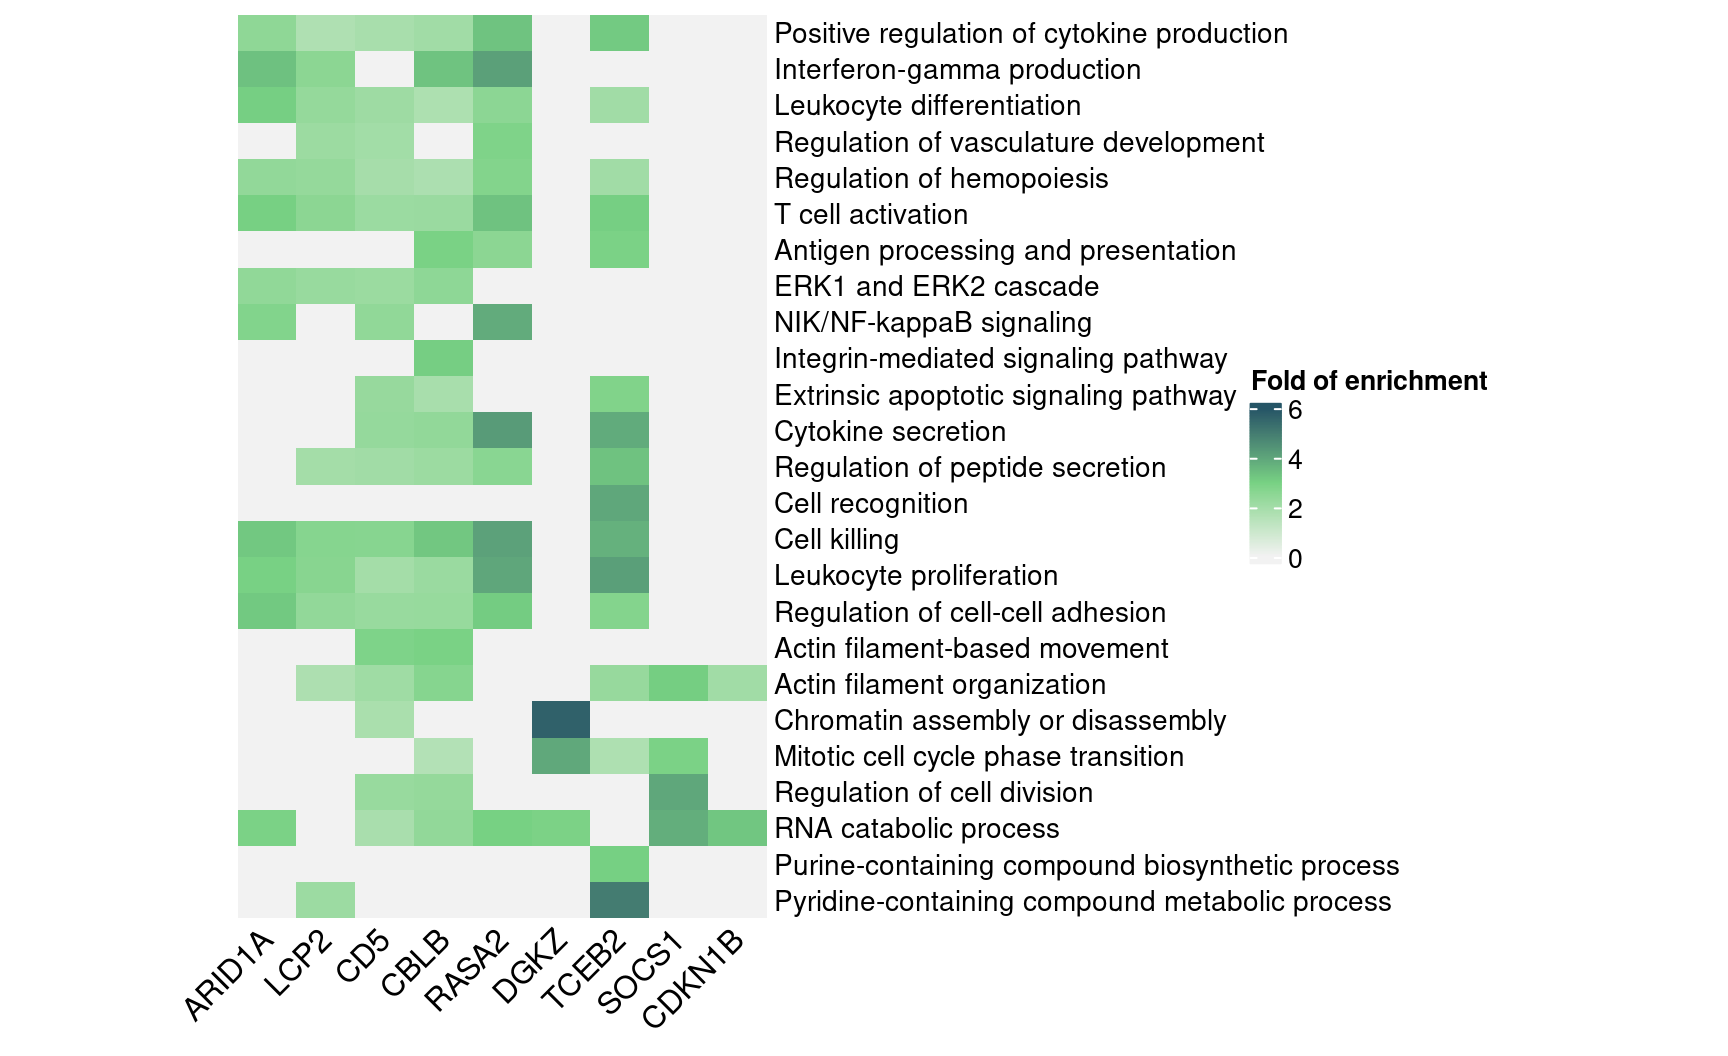
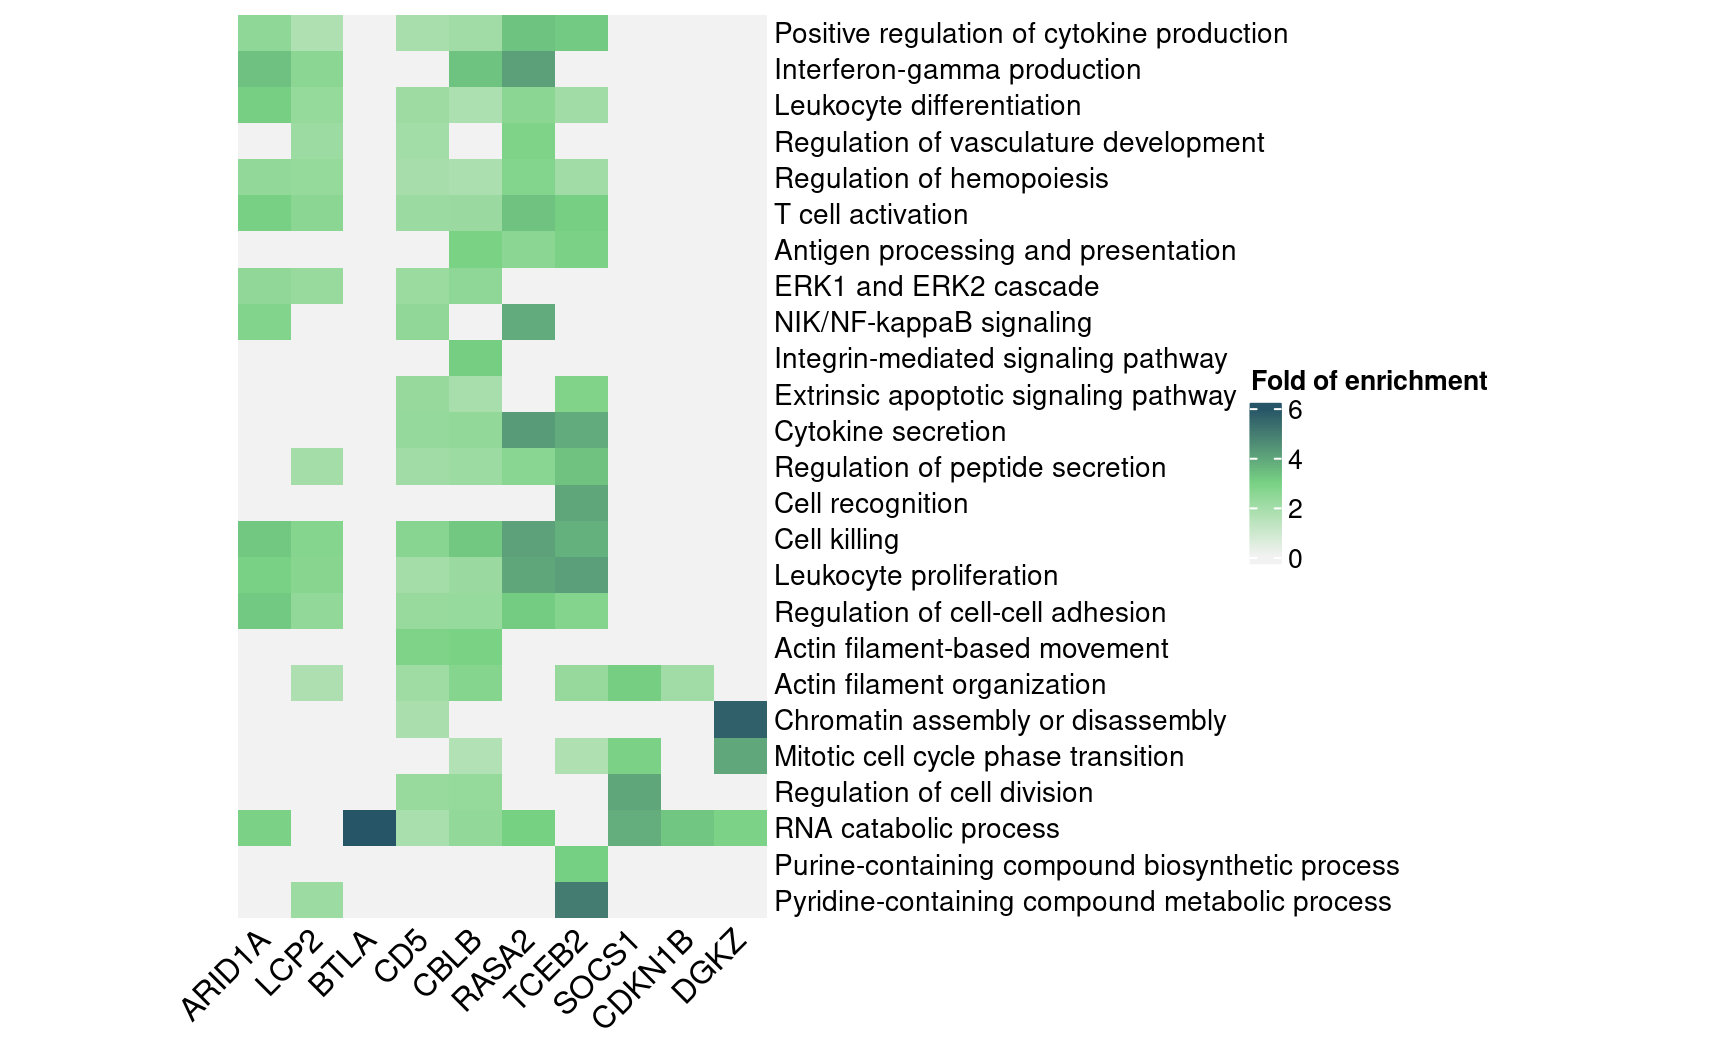
marker and target gene adjustment

Changed region(s): [[0.0938, 0.0, 0.4688, 0.9688]]

diff --git a/docs/interpret_gsfa_TCells.html b/docs/interpret_gsfa_TCells.html
@@ -410,11 +410,18 @@ G_mat &lt;- metadata[, 4:24]</code></pre>
 <p>Finally, we load the mapping from gene name to ENSEMBL ID for all 6k
 genes used in GSFA, as well as selected T cell marker genes. This is
 specific to this study and analysis.</p>
-<pre class="r"><code>feature.names &lt;- data.frame(fread(paste0(wkdir, &quot;GSE119450_RAW/D1N/genes.tsv&quot;),
+<pre class="r"><code># Load gene ensembl IDs and matched gene symbols.
+feature.names &lt;- data.frame(fread(paste0(wkdir, &quot;GSE119450_RAW/D1N/genes.tsv&quot;),
                                   header = FALSE), stringsAsFactors = FALSE)
 genes_df &lt;- feature.names[match(rownames(lfsr_mat1), feature.names$V1), ]
 names(genes_df) &lt;- c(&quot;ID&quot;, &quot;Name&quot;)
-interest_df &lt;- readRDS(paste0(wkdir, &quot;processed_data/selected_tcell_markers.rds&quot;))</code></pre>
+# Load marker genes in T cells.
+interest_df &lt;- readRDS(paste0(wkdir, &quot;processed_data/selected_tcell_markers.rds&quot;))
+interest_df &lt;- interest_df %&gt;%
+  dplyr::filter(gene_name != &quot;TOP2A&quot;)
+interest_df &lt;- rbind(interest_df,
+                     c(&quot;TOPBP1&quot;, &quot;Cell proliferation&quot;,
+                       &quot;DNA topoisomerase II binding protein 1&quot;, &quot;ENSG00000163781&quot;))</code></pre>
 </div>
 </div>
 <div id="factor-perturbation-associations" class="section level1"
@@ -440,7 +447,7 @@ on at least 1 of the 20 inferred factors.</p>
 <p>Here is a closer look at the estimated effects of selected
 perturbations on selected factors (Figure 3A):</p>
 <pre class="r"><code>targets &lt;- c(&quot;ARID1A&quot;, &quot;LCP2&quot;, &quot;CD5&quot;, &quot;CBLB&quot;, &quot;RASA2&quot;, 
-             &quot;DGKA&quot;, &quot;TCEB2&quot;, &quot;SOCS1&quot;, &quot;CDKN1B&quot;)
+             &quot;TCEB2&quot;, &quot;SOCS1&quot;, &quot;CDKN1B&quot;)
 complexplot_perturbation_factor(gibbs_PM$Gamma1_pm[-nrow(gibbs_PM$Gamma1_pm), ],
                                 gibbs_PM$beta1_pm[-nrow(gibbs_PM$beta1_pm), ],
                                 marker_names = KO_names, reorder_markers = targets,
@@ -669,20 +676,6 @@ ENSG00000148773
 </tr>
 <tr>
 <td style="text-align:left;">
-TOP2A
-</td>
-<td style="text-align:left;">
-Cell proliferation
-</td>
-<td style="text-align:left;">
-DNA topoisomerase II alpha
-</td>
-<td style="text-align:left;">
-ENSG00000131747
-</td>
-</tr>
-<tr>
-<td style="text-align:left;">
 CENPF
 </td>
 <td style="text-align:left;">
@@ -693,6 +686,20 @@ Centromere protein F
 </td>
 <td style="text-align:left;">
 ENSG00000117724
+</td>
+</tr>
+<tr>
+<td style="text-align:left;">
+TOPBP1
+</td>
+<td style="text-align:left;">
+Cell proliferation
+</td>
+<td style="text-align:left;">
+DNA topoisomerase II binding protein 1
+</td>
+<td style="text-align:left;">
+ENSG00000163781
 </td>
 </tr>
 </tbody>
@@ -845,7 +852,8 @@ class="section level2" number="4.1">
 <h2><span class="header-section-number">4.1</span> Number of DEGs
 detected by different methods</h2>
 <pre class="r"><code>fdr_cutoff &lt;- 0.05
-lfsr_cutoff &lt;- 0.05</code></pre>
+lfsr_cutoff &lt;- 0.05
+guides &lt;- KO_names[KO_names!=&quot;NonTarget&quot;]</code></pre>
 <div
 style="border: 1px solid #ddd; padding: 5px; overflow-x: scroll; width:100%; ">
 <table class="table" style="margin-left: auto; margin-right: auto;">
@@ -1012,7 +1020,6 @@ Num_genes
 </tbody>
 </table>
 </div>
-<pre class="r"><code>guides &lt;- KO_names[KO_names!=&quot;NonTarget&quot;]</code></pre>
 <pre class="r"><code>deseq_list &lt;- list()
 for (m in guides){
   fname &lt;- paste0(wkdir, &quot;processed_data/DESeq2/all_by_stim_negctrl/gRNA_&quot;, 
@@ -1068,6 +1075,7 @@ dge_plt &lt;- ggplot(dge_plot_df,
   geom_bar(position = &quot;dodge&quot;, stat = &quot;identity&quot;) +
   geom_text(aes(label = Num_DEGs),
             position = position_dodge(width = 0.9), vjust = -0.25) +
+  geom_hline(yintercept = 100, color = &quot;grey50&quot;, linetype = &quot;dotted&quot;) +
   scale_y_log10() +
   scale_fill_brewer(palette = &quot;Set2&quot;) +
   labs(x = &quot;Target gene&quot;,
@@ -1090,9 +1098,9 @@ proliferation states.</p>
 <h3><span class="header-section-number">4.2.1</span> GSFA</h3>
 <p>Here are the summarized effects of perturbations on marker genes
 estimated by GSFA (Figure 4D).</p>
-<pre class="r"><code>interest_df &lt;- rbind(interest_df, c(&quot;TOPBP1&quot;, &quot;Cell proliferation&quot;, &quot;&quot;, &quot;ENSG00000163781&quot;))
-targets &lt;- c(&quot;ARID1A&quot;, &quot;LCP2&quot;, &quot;CD5&quot;, &quot;CBLB&quot;, &quot;RASA2&quot;,
-             &quot;DGKZ&quot;, &quot;TCEB2&quot;, &quot;SOCS1&quot;, &quot;CDKN1B&quot;)
+<pre class="r"><code># Only keep target genes with &gt; 100 DEGs to simplify plot.
+targets &lt;- c(&quot;ARID1A&quot;, &quot;LCP2&quot;, &quot;BTLA&quot;, &quot;CD5&quot;, &quot;CBLB&quot;, &quot;RASA2&quot;,
+             &quot;TCEB2&quot;, &quot;SOCS1&quot;, &quot;CDKN1B&quot;, &quot;DGKZ&quot;)
 complexplot_gene_perturbation(genes_df, interest_df,
                               targets = targets,
                               lfsr_mat = lfsr_mat1,
@@ -1111,7 +1119,7 @@ detected:</p>
                               targets = names(lfsr_signif_num)[lfsr_signif_num &gt; 0],
                               lfsr_mat = lfsr_mat1,
                               effect_mat = total_effect1)</code></pre>
-<p><img src="interpret_gsfa_TCells_files/figure-html/unnamed-chunk-18-1.png" width="768" style="display: block; margin: auto;" /></p>
+<p><img src="interpret_gsfa_TCells_files/figure-html/unnamed-chunk-17-1.png" width="768" style="display: block; margin: auto;" /></p>
 </div>
 <div id="scmageck" class="section level3" number="4.2.2">
 <h3><span class="header-section-number">4.2.2</span> scMAGeCK</h3>
@@ -1290,7 +1298,7 @@ map &lt;- Heatmap(interest_enrich_table,
                column_names_rot = 45,
                width = unit(10, &quot;cm&quot;))
 draw(map, heatmap_legend_side = &quot;right&quot;)</code></pre>
-<p><img src="interpret_gsfa_TCells_files/figure-html/unnamed-chunk-26-1.png" width="1152" style="display: block; margin: auto;" /></p>
+<p><img src="interpret_gsfa_TCells_files/figure-html/unnamed-chunk-25-1.png" width="1152" style="display: block; margin: auto;" /></p>
 <p>Similar GO enrichment analyses were performed on DEGs detected by
 alternative methods (FDR &lt; 0.05).<br />
 Below summarizes the number of significant GO terms in DEGs by each
@@ -1301,8 +1309,8 @@ enrich_res &lt;- readRDS(paste0(enrich_dir,
                              &quot;GO_enrich_in_GSFA_DEGs_stimulated.rds&quot;))
 gsfa_term_count &lt;-
   sapply(enrich_res, function(x){ x %&gt;% dplyr::filter(FDR &lt; enrich_thres) %&gt;% nrow()})
-# Skip low count target genes to simplify plot.
-gsfa_term_count &lt;- gsfa_term_count[gsfa_term_count &gt; 10]
+# Only keep target genes with &gt; 100 DEGs to simplify plot.
+gsfa_term_count &lt;- gsfa_term_count[targets]
 
 term_count_df &lt;- data.frame(Perturbation = names(gsfa_term_count),
                             GSFA = as.numeric(gsfa_term_count))
@@ -1332,8 +1340,7 @@ num_terms_plt &lt;-
        title = &quot;Number of GO terms enriched in DEGs detected by different methods&quot;) +
   theme(axis.text.x = element_text(angle = 45, hjust = 1, size = 12),
         legend.text = element_text(size = 13))
-num_terms_plt +
-  theme(legend.position = &quot;none&quot;)</code></pre>
+num_terms_plt</code></pre>
 <p><img src="interpret_gsfa_TCells_files/figure-html/Fig_4B-1.png" width="720" style="display: block; margin: auto;" /></p>
 </div>
 </div>

diff --git a/docs/interpret_gsfa_LUHMES.html b/docs/interpret_gsfa_LUHMES.html
@@ -1162,8 +1162,7 @@ enrichment in DEGs detected by GSFA (Figure S6F):<br />
 (In the code below, we omitted the content in
 <code>terms_of_interest_df</code> as one can subset the
 <code>enrich_table</code> with any terms of their choice.)</p>
-<pre class="r"><code>interest_enrich_table &lt;- enrich_table[terms_of_interest_df$description,
-                                      colnames(enrich_table) != &quot;DYRK1A&quot;]
+<pre class="r"><code>interest_enrich_table &lt;- enrich_table[terms_of_interest_df$description, ]
 interest_enrich_table[is.na(interest_enrich_table)] &lt;- 0
 # Convert only the first letter of each GO term to upper case.
 rownames(interest_enrich_table) &lt;-
